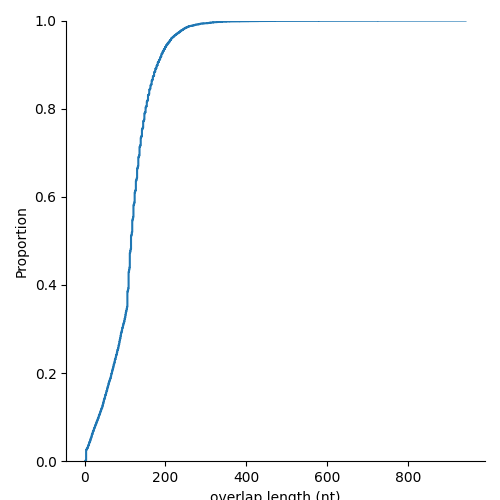
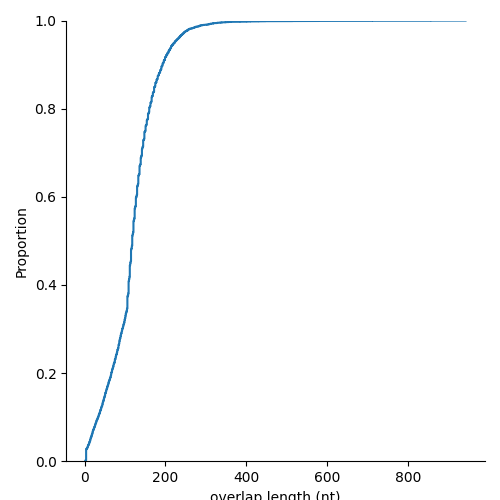
ur_metrics debug

Changed region(s): [[0.24, 0.03, 0.45, 0.6], [0.18, 0.81, 0.21, 0.87], [0.21, 0.75, 0.24, 0.78]]

diff --git a/filtering/ur_metrics.py b/filtering/ur_metrics.py
@@ -2,6 +2,7 @@ import csv
 import os
 import re
 from itertools import permutations
+from math import ceil
 
 import matplotlib.pyplot as plt
 import pandas as pd
@@ -15,7 +16,7 @@ ABSPATH = os.path.dirname(ABSPATH)  # absolute path to working directory
 
 def read_filtered(file_name: str) -> list:
     unfiltered_storfs = []
-    with open(f"../kpip_output/{file_name}") as storf_file:
+    with open(f"kpip_output/{file_name}") as storf_file:
         for line in storf_file:
             if line[0] == ">":
                 unfiltered_storfs.append([line, next(storf_file)])
@@ -150,20 +151,27 @@ def overlap_metric(storfs: list, genome_name: str, hss=False) -> list:
     overlaps = []
     for s, storf in enumerate(storfs):
         if is_next_new_group(storf, s, s_total):
-            # find all overlaps in previous contiguous group
-            for j in range(0, len(storfs) - 1):
-                locus_j = storfs[j][0][storfs[j][0].find(":") + 1: storfs[j][0].find("|")]
-                for k in range(j, len(storfs) - 1):
-                    locus_k = storfs[k][0][storfs[k][0].find(":") + 1: storfs[k][0].find("|")]
+            # calculate all overlaps in previous contiguous group
+            for j in range(0, len(con_group) - 1):
+                storf_j_id = con_group[j][1][0]
+                locus_j = storf_j_id[storf_j_id.find(":") + 1: storf_j_id.find("|")]
+                for k in range(j, len(con_group) - 1):
+                    storf_k_id = con_group[k][1][0]
+                    locus_k = storf_k_id[storf_k_id.find(":") + 1: storf_k_id.find("|")]
                     overlap = get_overlap(locus_j, locus_k)
                     if overlap is not None:
                         overlaps.append(overlap)
-            con_group = [(s, storf)]  # init new group
+            con_group = [(s, storf)]  # start finding new contig-group
         else:
             con_group.append((s, storf))
-    mean_overlap_len = round(sum(overlaps) / len(overlaps))
+    set_type = "hss" if hss else "unfiltered"
+    if len(overlaps) == 0:
+        print(f"{set_type} set has no overlaps, skipping distribution plotting...")
+        return [0, "N.A."]
+    mean_overlap_len = int(ceil(sum(overlaps) / len(overlaps)))  # round up
     lm = [s for s in overlaps]
-    g = sns.displot(data=lm, kind="ecdf")
+    print(f"writing {set_type} ecdf overlap plot ({len(overlaps)} overlaps)...")
+    g = sns.displot(data=lm, kind="ecdf")  # computationally expensive job
     g.set_axis_labels("overlap length (nt)", "Proportion")
     g.figure.savefig(graph_path + f"/{genome_name}_overlap_len_ecdf.png")
     # for csv data printing
@@ -179,6 +187,8 @@ def len_metric(storfs: list, genome_name: str, hss=False) -> list:
     smallest_storf = sl[0]
     # plot empirical cumulative distribution function, i.e., proportional StORF lengths
     lm = [len(s[1]) for s in sl]
+    set_type = "hss" if hss else "unfiltered"
+    print(f"writing {set_type} ecdf length plot ({total} storfs)...")
     g = sns.displot(data=lm, kind="ecdf")
     g.set_axis_labels("StORF length (nt)", "Proportion")
     g.figure.savefig(graph_path + f"/{genome_name}_len_ecdf.png")
@@ -290,7 +300,7 @@ def get_summary(unfilt_storfs: list, hss: list, filt_storfs: list) -> list:
 
 
 def write_csv_metrics(genome_name: str, data: list) -> None:
-    file_path = ABSPATH + f"/output/{genome_name}/{genome_name}_metrics.csv"
+    file_path = ABSPATH + f"/metrics/output/{genome_name}/{genome_name}_metrics.csv"
     header = [
         "storf_set_type",
         "total_storfs",
@@ -308,7 +318,7 @@ def write_csv_metrics(genome_name: str, data: list) -> None:
 
 
 def write_csv_summary(data: list, genome_name: str) -> None:
-    file_path = ABSPATH + f"/output/{genome_name}/{genome_name}_summary_metrics.csv"
+    file_path = ABSPATH + f"/metrics/output/{genome_name}/{genome_name}_summary_metrics.csv"
     header = [
         "unfiltered_storfs",
         "hss",
@@ -353,7 +363,7 @@ def metrics() -> None:
     # For each genome, produce metrics
     for i in range(0, len(unfiltered_ur)):
         genome_name = unfiltered_ur[i][:unfiltered_ur[i].find("_")]
-        print(f"processing {genome_name} metrics...")
+        print(f"\nprocessing {genome_name} metrics...")
         # Non-filtered StORFs
         unfiltered_storfs = read_unfiltered(unfiltered_ur[i])
 
